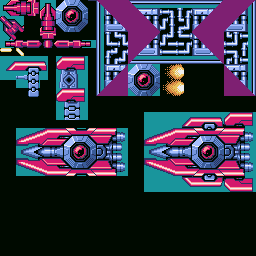
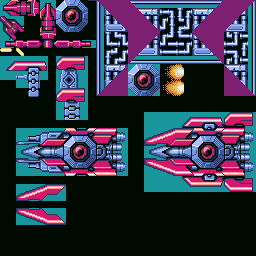
迷宮ボス

diff --git a/source/bossLabyrinth.py b/source/bossLabyrinth.py
@@ -272,7 +272,8 @@ class BossLabyrinthBeam1(enemy.EnemyBase):
         self.rad = rad
         self.beamTime = beamTime
         self.layer = gcommon.C_LAYER_E_SHOT
-        self.shotHitCheck = True
+        self.hitCheck = True
+        self.shotHitCheck = False
         self.polygonList1 = []
         self.polygonList1.append(gcommon.Polygon(__class__.beamPoints, 10))
         self.xpolygonList1 = None
@@ -333,14 +334,17 @@ class BossLabyrinth2(enemy.EnemyBase):
     #     [0, CountMover.SET_POS, 256+48, 96.0],  # 0
     #     [104, CountMover.MOVE, -1.0, 0.0],      # 1
     # ]
+    bodyRect1 = gcommon.Rect(-6*8-3.5, -15.5, -15.5, 15.5)
+    bodyRect2 = gcommon.Rect(-14.5, -21.5, 39.5, 21.5)
     def __init__(self):
         super(__class__, self).__init__()
         self.x = 200
         self.y = 96
-        self.left = -45
-        self.top = -45
-        self.right = 45
-        self.bottom = 45
+        # 自機弾との当たり判定
+        self.left = -6*8-3.5
+        self.top = -15.5
+        self.right = 32
+        self.bottom = 15.5
         self.hp = 7000
         self.layer = gcommon.C_LAYER_UNDER_GRD
         self.score = 2000
@@ -381,15 +385,14 @@ class BossLabyrinth2(enemy.EnemyBase):
                     y = self.y+23.5 -16 +48 - n * 16 +11
                     ObjMgr.addObj(BossLabyrinthShot1(self.x -22, y, -4, spreadTime=30))
                 else:
-                    ObjMgr.addObj(BossLabyrinthShot1(self.x -64, self.y, -4, spreadTime=30))
-                if n == 3:
-                    gcommon.debugPrint("arm1 " + str(self.arm1Pos) + " arm2 " + str(self.arm2Pos))
+                    ObjMgr.addObj(BossLabyrinthShot1(self.x -58, self.y -13, -4, spreadTime=30))
+                    ObjMgr.addObj(BossLabyrinthShot1(self.x -58, self.y +13, -4, spreadTime=30))
                     self.nextState()
         elif self.state == 5:
             self.arm1Pos -= 1
             self.arm2Pos += 1
             if self.arm2Pos >= 48:
-                gcommon.debugPrint("arm1 " + str(self.arm1Pos) + " arm2 " + str(self.arm2Pos))
+                #gcommon.debugPrint("arm1 " + str(self.arm1Pos) + " arm2 " + str(self.arm2Pos))
                 self.nextState()
         elif self.state == 6:
             # ダイアモンドビーム
@@ -448,6 +451,16 @@ class BossLabyrinth2(enemy.EnemyBase):
             if math.fabs(self.y -96) < 1.0:
                 self.y = 96.0
                 self.setState(2)
+        self.collisionRects = []
+        self.collisionRects.append(__class__.bodyRect1)
+        self.collisionRects.append(__class__.bodyRect2)
+        self.collisionRects.append(gcommon.Rect.createWH(-31.5 +14, -39.5 +6 -self.arm1Pos, 30, 8))
+        self.collisionRects.append(gcommon.Rect.createWH(-31.5 +14, 24.5 +2 +self.arm1Pos, 30, 8))
+        self.collisionRects.append(gcommon.Rect.createWH(+16.5+4, -39.5 +4 -self.arm2Pos/3, 25, 12))
+        self.collisionRects.append(gcommon.Rect.createWH(+16.5+4, 24.5 +self.arm2Pos/3, 25, 12))
+        if self.arm1Pos > 0:
+            self.collisionRects.append(gcommon.Rect.createWH(-31.5 +28, -39.5 +16 -self.arm1Pos, 11, self.arm1Pos))
+            self.collisionRects.append(gcommon.Rect.createWH(-31.5 +28, 24.5, 11, self.arm1Pos))
 
     def chaseToMyShip(self):
         y = ObjMgr.myShip.y + myShip.MyShipBase.CENTER_Y
@@ -484,12 +497,12 @@ class BossLabyrinth2(enemy.EnemyBase):
             pyxel.blt(self.x -63.5, self.y-39.5, 2, 144, 112, 14*8, 80, 3)
             pyxel.pal()
         else:
-            # アーム前上
+            # アーム前上の隠れている箇所
             y = self.y-39.5 +16 -self.arm1Pos
             while(y < self.y-23.5):
                 pyxel.blt(self.x -15.5, y, 2, 16, 72, 24, 16, 3)
                 y += 16
-            # アーム前下
+            # アーム前下の隠れている箇所
             y = self.y+23.5 -16 +self.arm1Pos
             while(y > self.y+7.5):
                 pyxel.blt(self.x -15.5, y, 2, 16, 72, 24, -16, 3)
@@ -505,13 +518,23 @@ class BossLabyrinth2(enemy.EnemyBase):
             # while(y > self.y+7.5):
             #     pyxel.blt(self.x +24.5, y, 2, 64, 72, 16, -16, 3)
             #     y -= 16
-
-            # 中心
+            # アーム部
             pyxel.blt(self.x -31.5, self.y-39.5 -self.arm1Pos, 2, 0, 56, 48, 16, 3)
-            pyxel.blt(self.x -31.5, self.y+23.5 +self.arm1Pos, 2, 0, 56, 48, -16, 3)
+            pyxel.blt(self.x -31.5, self.y+24.5 +self.arm1Pos, 2, 0, 56, 48, -16, 3)
             pyxel.blt(self.x +16.5, self.y-39.5 -self.arm2Pos/3, 2, 56, 56, 32, 32, 3)
             pyxel.blt(self.x +16.5, self.y+24.5 -16 +self.arm2Pos/3, 2, 56, 56, 32, -32, 3)
+
+            # 中心
             pyxel.blt(self.x -63.5, self.y-23.5, 2, 16, 128, 14*8, 48, 3)
+
+            # 前カバー
+            p = self.arm1Pos -24
+            if p <= 0:
+                p = 0
+            elif p >= 10:
+                p = 10
+            pyxel.blt(self.x -63.5, self.y-23.5 -p, 2, 16, 184, 50, 17, 3)
+            pyxel.blt(self.x -63.5, self.y+ 8.5 +p, 2, 16, 208, 50, 17, 3)
 
     def broken(self):
         self.shotHitCheck = False
@@ -523,7 +546,12 @@ class BossLabyrinth2(enemy.EnemyBase):
         enemy.Splash.append(gcommon.getCenterX(self), gcommon.getCenterY(self), gcommon.C_LAYER_EXP_SKY)
         ObjMgr.objs.append(enemy.Delay(enemy.StageClear, None, 240))
 
-
+    # 自機弾と敵との当たり判定
+    def checkShotCollision(self, shot):
+        if shot.removeFlag == False and gcommon.check_collision(self, shot):
+            return True
+        else:
+            return False
 
 # 回転した後、自機狙いのダイアモンドビーム
 class BossLabyrinthBeam2(enemy.EnemyBase):

diff --git a/source/gcommon.py b/source/gcommon.py
@@ -308,29 +308,19 @@ class Pos:
 		return p
 
 class Rect:
-	def __init__(self):
-		self.left = 0
-		self.top = 0
-		self.right = 0
-		self.bottom = 0
+	def __init__(self, left, top, right, bottom):
+		self.left = left
+		self.top = top
+		self.right = right
+		self.bottom = bottom
 
 	@classmethod
 	def create(cls, left, top, right, bottom):
-		rect = Rect()
-		rect.left = left
-		rect.top = top
-		rect.right = right
-		rect.bottom = bottom
-		return rect
+		return Rect(left, top, right, bottom)
 
 	@classmethod
 	def createWH(cls, left, top, width, height):
-		rect = Rect()
-		rect.left = left
-		rect.top = top
-		rect.right = left + width -1
-		rect.bottom = top + height -1
-		return rect
+		return Rect(left, top, left + width -1, top + height -1)
 
 	@classmethod
 	def createFromList(cls, list):

diff --git a/source/enemy.py b/source/enemy.py
@@ -78,7 +78,7 @@ class EnemyBase:
 		self.top = 0
 		self.right = 0
 		self.bottom = 0
-		self.collisionRects = None		# 当たり判定矩形リスト
+		self.collisionRects = None		# 当たり判定矩形リスト（Rectクラスのarray）
 		self.hp = 0						# HP
 		self.state = 0					# 状態
 		self.cnt = 0					# 汎用カウント
